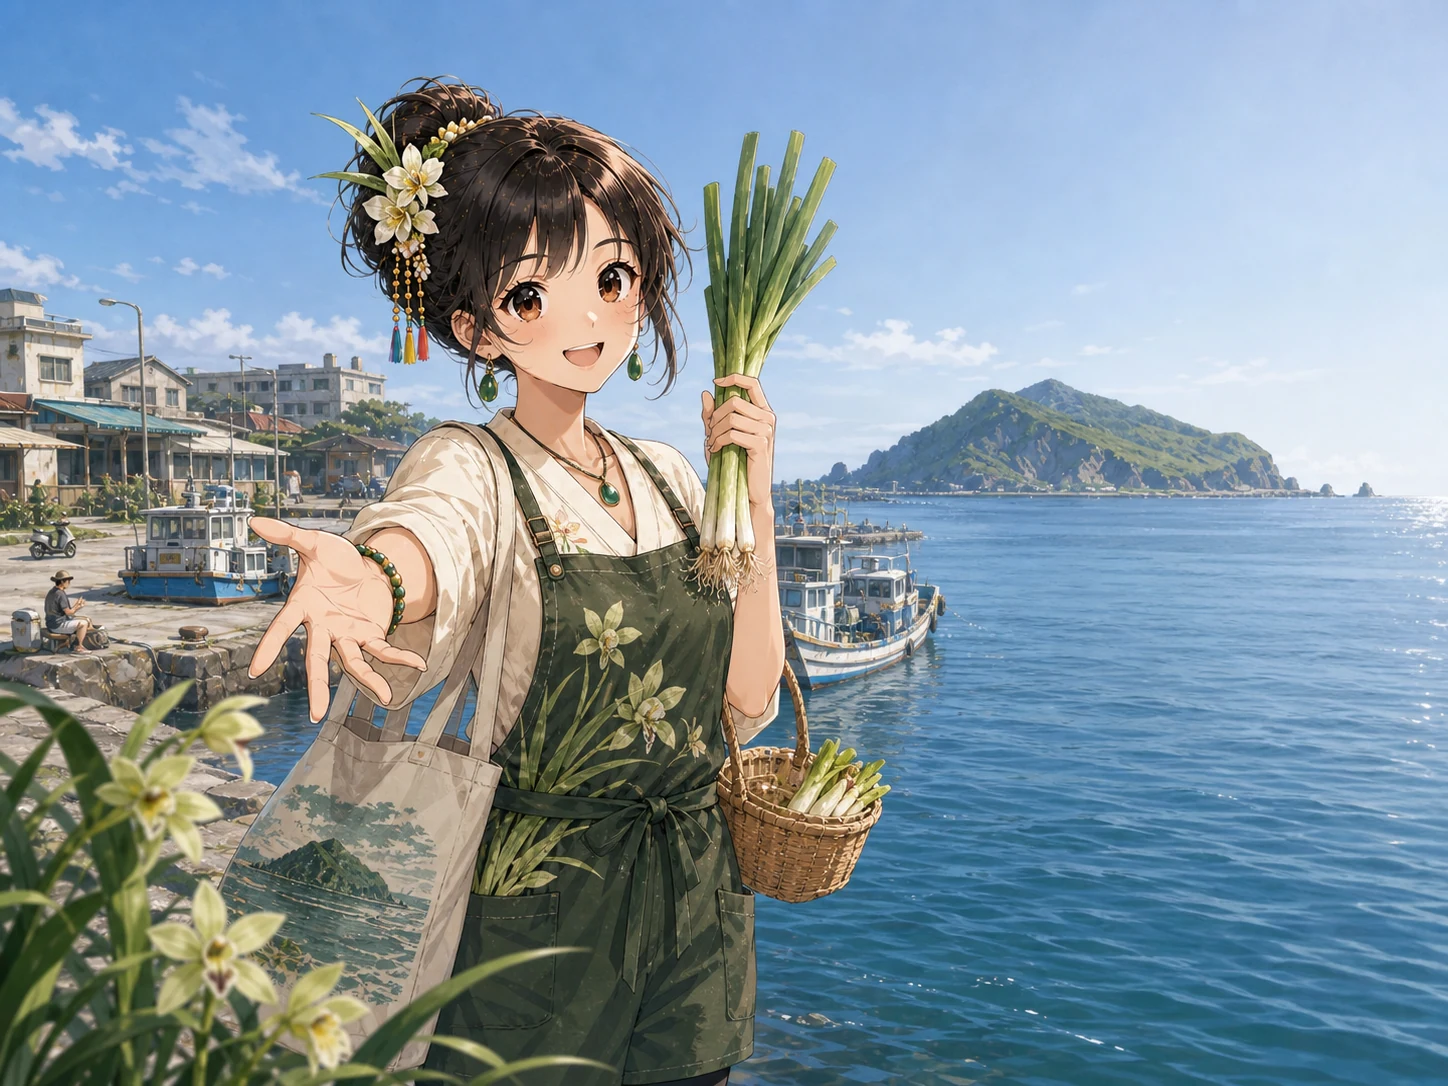
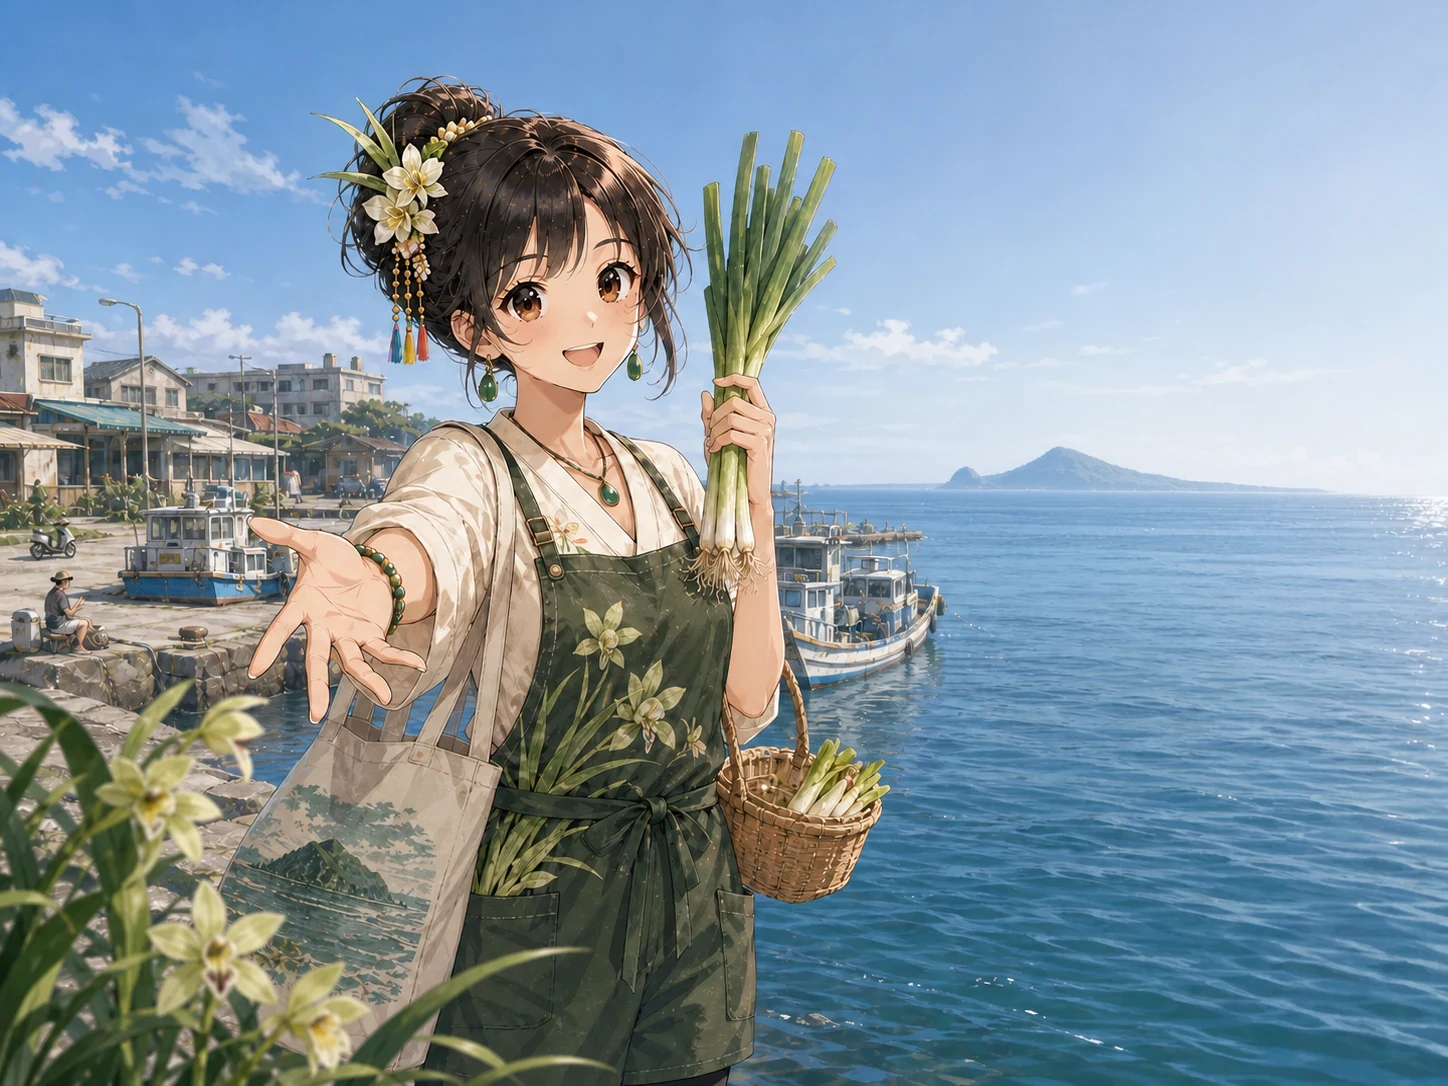
噶瑪蘭依實物照重生、龜山島規格寫死，並加上服飾參考圖機制 (#19)
一、噶瑪蘭的服飾依實物照重畫。舊圖是寬黑白斑馬條紋——文字依據沒錯，
但「以黑色白色為主」沒寫黑白怎麼配置，模型就自由發揮了。實物是白色開襟上衣、
前襟與袖口與下襬鑲黑寬邊、黑邊上綴白珠十字與銀圓片、珠繡頭帶。
頭飾也從「查不到形制所以戴宜蘭縣花」改成族群自己的珠繡頭帶。

二、加 scene.costume_refs：逐筆附服飾實物照，排在參考圖最後一張。收照片三道關：
照片授權（只收國家文化記憶庫的 CC BY-NC 3.0 TW+，lcm.tacp.gov.tw 沒有開放授權，
只當閱讀資料）、智慧創作專用權（tibay 女子禮裙已登記，所以畫日常不畫禮服）、
以及「不准抄紋樣不是安全牌」——族服的識別特徵常常就是紋樣本身，
禁掉紋樣等於禁掉這張圖存在的理由。要禁的是登記在案的特定作品與部落專屬紋章。

三、龜山島從第一版就畫錯：接在陸地上、佔滿中景、沒有龜首龜尾。規格改對三件
（離岸、距離、三段式輪廓），並記下「龜首 239 公尺不得高過龜甲 398 公尺」
與「朝左朝右取決於站在哪裡」。噶瑪蘭與宜蘭普通版兩張都修正。

四、新增 --fix-landmark-shape：只重畫主地標、其餘保留。宜蘭普通版整張重生的候選
把國蘭髮花退化成櫻花狀白花，用好的換壞的不划算，所以走定點修正。

順帶抓到一個舊病灶：宜蘭的 landmarks 寫著太平山與冬山河，但視點是頭城海岸，
從那裡兩者都看不到——跟台北那次同一個形狀，已寫成待辦。

diff --git a/sw.js b/sw.js
@@ -8,7 +8,7 @@
  * SHELL_V 由 tools/build_sw.py 依 precache 清單的內容 hash 產生，不要手改。
  * 手動 bump 的遲早會忘記，而忘記的症狀是「使用者永遠看不到新版」，沒有任何徵兆。
  */
-const SHELL_V = "shell-0430490";
+const SHELL_V = "shell-e43f8d8";
 const ASSET_V = "asset-v1";
 
 // 前綴要跨專案唯一。CacheStorage 是 per-origin，yazelin.github.io 底下所有專案

diff --git a/tools/build_prompt.py b/tools/build_prompt.py
@@ -157,6 +157,25 @@ def costume_block(c):
         "Every layer named above must remain visible in the finished picture — do not let an "
         "outer garment cover and hide a layer that was listed, especially leg-cloths and "
         "chest-cloths. ")
+    # 有實物照時才加這段。
+    # 第一版寫成「不得複製任何織紋」——那是錯的，而且自相矛盾：族服的識別特徵常常
+    # 就是紋樣本身（賽夏沒有雷女紋只剩標籤、太魯閣沒有菱紋就變泛族風），
+    # 禁掉紋樣等於禁掉這張圖存在的理由。要禁的從來不是「紋樣」，是
+    # 「登記在案的特定作品」與「可辨識到單一部落的專屬紋章」。
+    if c.get("scene", {}).get("costume_refs"):
+        parts.append(
+            "THE LAST REFERENCE IMAGE is a photograph of this actual garment as it is worn today. "
+            "Follow it for how the pieces are constructed and layered, the proportions (garment "
+            "lengths, how deep the trim bands are, how wide the panels are), how the colours are "
+            "distributed, AND the ornament actually visible on it — the bead work, the metal discs "
+            "and the way they are laid out along the bands. That patterning is the point of the "
+            "garment, not an optional extra: draw it. "
+            "Two things you must NOT take from it: do not reproduce it as a ceremonial or wedding "
+            "dress, and do not add any single crest or emblem that would mark one specific village "
+            "rather than the people as a whole. "
+            "Do NOT copy the person, face, pose, hairstyle, background or framing from it — "
+            "those come from the character sheets and the scene description. "
+            "Where the photograph and the written description disagree, the written description wins. ")
     return "".join(parts)
 
 
@@ -304,12 +323,18 @@ def build(c):
 
 
 def refs(c):
-    """生圖要附的參考圖：image 1 是舊海報，其後才是角色設定圖。"""
+    """生圖要附的參考圖：image 1 是舊海報，其後是角色設定圖，最後才是服飾實物照。
+
+    服飾實物照放在最後，是因為 build() 裡那段說明用「最後一張參考圖」來指涉它。
+    只有 scene.costume_refs 有寫的那幾筆才會附——照片要授權允許才收，見
+    data/costume-refs/SOURCES.md。
+    """
     out = []
     if c.get("poster"):
         out.append(ROOT / "img" / f"{c['poster']}.webp")
     out.extend([ROOT / "data" / "character" / "ref-half.png",
                 ROOT / "data" / "character" / "face.png"])
+    out.extend(ROOT / p for p in c.get("scene", {}).get("costume_refs", []))
     return [str(p) for p in out if p.exists()]
 
 
@@ -473,6 +498,32 @@ def build_landmark_boundary_fix(c):
     )
 
 
+def build_landmark_shape_fix(c):
+    """既有底圖只重畫主地標本身，其餘一律保留。
+
+    用在「畫面是好的、但那個地標畫錯了」的情況——宜蘭那張把離岸的龜山島畫成接在
+    陸地上的岬角，整張圖其他部分（國蘭髮花、構圖、右側留白）都比重生的候選好，
+    重生等於用好的換壞的。內容取自 scene.hero_landmark_en，所以其他縣市也能用。
+    """
+    s = c["scene"]
+    return (
+        "Use case: precise-object-edit. Image 1 is the edit target. "
+        "Change ONLY the main landmark in the middle distance and the water immediately around it. "
+        "Whatever landform currently occupies that part of the picture is wrong and must be removed "
+        "completely, together with any buildings, roads, breakwaters or shoreline that currently sit on "
+        "it or connect it to the land. In its place, continue the open sea, and on the far horizon draw: "
+        + s["hero_landmark_en"] + " "
+        "Draw it at the size and haze of things that far away — small, pale and low-contrast, clearly "
+        "behind everything in the foreground. "
+        "Preserve everything else exactly unchanged: the complete character, her face, eyes, hair, the "
+        "flower and leaves in her hair, the hairpin, earrings, all clothing, both hands and whatever she "
+        "is holding, every foreground plant, and all the town, road, railway, bridge, near shoreline and "
+        "rocks on the left side. Keep the sky, horizon height, lighting, palette, painterly anime style "
+        "and 4:3 framing. Do not move or rescale the character. "
+        "No text, letters, logos, panels, borders or watermarks."
+    )
+
+
 def build_bottom_right_cleanup(c):
     """既有底圖只清除右下文字區的近景障礙物。"""
     return (
@@ -573,6 +624,8 @@ if __name__ == "__main__":
         print(build_tote_print_fix(county))
     elif "--cleanup-right-zone" in sys.argv:
         print(build_right_zone_cleanup(county))
+    elif "--fix-landmark-shape" in sys.argv:
+        print(build_landmark_shape_fix(county))
     elif "--fix-landmark-boundary" in sys.argv:
         print(build_landmark_boundary_fix(county))
     elif "--cleanup-bottom-right" in sys.argv:

diff --git a/AGENTS.md b/AGENTS.md
@@ -504,6 +504,42 @@ mcp__chrome-devtools__emulate  viewport: 1600x1000x1
 **開襟方向、扣件形式、眼睛顏色這種一兩個像素寬的特徵，縮圖上看到的是自己的預期。**
 要判斷就裁出那個部位放大到 500px 以上再看。這跟先前「用 1× 手機截圖判斷版面」是同一個形狀。
 
+## 文字鎖得住結構，鎖不住比例與分佈——該用實物照就用
+
+噶瑪蘭那一筆的文字依據沒有錯：原民會族群介紹寫「上半部是方衣系統、用兩幅布縫合而成，
+下半身則以一塊布料裹身，以黑色、白色為主」，每一項都對得回去。
+但那段話**沒有寫黑白怎麼配置**，模型就畫成寬斑馬條紋。實物是白色開襟上衣、
+前襟與袖口與下襬鑲黑寬邊、黑邊上綴白珠與銀圓片——差得離譜，而且被使用者一眼看出來。
+
+阿美族那一筆的規格厚得多（female 欄九項逐條），仍然花了六個候選加兩次補規格，
+「三片方布」的層次到現在還看不出來。**這是文字這個媒介的上限，不是寫得不夠努力。**
+
+| | 文字擅長 | 文字幾乎無能為力 |
+|---|---|---|
+| 例子 | 開襟方向、衣長、幾層、扣件形式、什麼不准出現 | 黑白各佔多少、鑲邊多寬、珠飾多密、哪裡留白 |
+
+所以 `scene.costume_refs` 可以逐筆附實物照，`build_prompt.py` 會把它排在參考圖的最後一張。
+
+**收照片有三道關，缺一不可：**
+
+一、**照片的授權**。國家文化記憶庫（`tcmb.culture.tw`）的數位物件是 CC BY-NC 3.0 TW+，
+非商業可用、要姓名標示，適合這個專案。全國原住民族文化館主題網（`lcm.tacp.gov.tw`）
+頁尾只有 `Copyright © 2022`，沒有開放授權——那批只能當閱讀資料用來寫規格，不進 repo、不進 prompt。
+每一張的出處、典藏單位與授權寫在 `data/costume-refs/SOURCES.md`。
+
+二、**智慧創作專用權是另一件事**，跟照片授權無關，兩件都要過。噶瑪蘭已登記
+「tibay（女子禮裙）」（噶 GH000026），所以這一筆畫日常常見形制、不畫禮服。
+
+三、**不要把「不准抄紋樣」當成安全牌**。第一版的 prompt 我寫成「不得複製任何織紋」，
+那是自相矛盾的：族服的識別特徵常常就是紋樣本身（賽夏沒有雷女紋只剩標籤、
+太魯閣沒有菱紋就變泛族風），禁掉紋樣等於禁掉這張圖存在的理由。
+要禁的從來不是紋樣這個類別，是兩件具體的事：**畫成登記在案的特定作品**，
+以及**加上可辨識到單一部落的專屬紋章**。現在的 prompt 明講「照片上的珠飾與圓片排列就是
+這件衣服的重點，要畫」，另外兩件才是否定句。
+
+而且對噶瑪蘭來說，照片是紋樣的**唯一**依據：`costume.json` 的 motifs 欄只記了十九世紀
+結婚服飾的挑織紋，現行黑白款那一格是空的。照片上黑邊的白珠小十字，正好對得回記載裡的「米字」。
+
 ## 規格寫「若出現」等於沒寫
 
 賽夏族的雷女紋是它唯一的獨有識別特徵——北賽夏的服裝形制與泰雅極為相似，

diff --git a/data/costume-refs/SOURCES.md b/data/costume-refs/SOURCES.md
@@ -1,0 +1,26 @@
+# 服飾參考照片
+
+這裡的照片是**生圖時要附進去的參考圖**，不是裝飾。會需要它，是因為只靠文字描述做不到必要的精準度：
+噶瑪蘭那一筆的文字依據只寫「黑白為主、方衣系統、兩幅布縫合」，模型就把它畫成寬斑馬條紋，
+而實物是白衣、袖口與衣襬鑲黑寬邊、黑邊上綴白珠與銀圓片。
+文字擅長鎖結構（開襟方向、衣長、層數、扣件），對比例與分佈幾乎無能為力——那正是一張照片一秒說完的事。
+
+**只收授權允許的來源。** 每一張都要在下表寫明出處、典藏單位與授權，並且在網站的依據頁標示。
+
+| 檔案 | 內容 | 出處 | 典藏單位 | 授權 |
+|---|---|---|---|---|
+| `kavalan-female-01.jpg` | 噶瑪蘭族女子服飾（白色開襟上衣、鑲黑寬邊、白珠與銀圓片、珠繡帽飾） | [國家文化記憶庫](https://tcmb.culture.tw/zh-tw/detail?indexCode=Culture_People&id=488276) | 原住民族委員會原住民族文化發展中心 | CC BY-NC 3.0 TW+ |
+| `kavalan-female-02.jpg` | 同上，男女合影，可看衣長與下半身形制 | 同上 | 同上 | CC BY-NC 3.0 TW+ |
+
+原圖尺寸 3456×5184，收進來的是長邊 1600 的縮圖（參考用途夠，不必扛原始大檔）。
+
+**沒有收進來的**：全國原住民族文化館主題網（`lcm.tacp.gov.tw`）的典藏照片。
+那個站頁尾只寫 `Copyright © 2022 原展群博`，沒有開放授權，所以只當閱讀資料用來寫規格，不進 repo、不進 prompt。
+
+## 用照片之前要過的第二關
+
+照片的著作權授權與**原住民族傳統智慧創作專用權**是兩件事，兩件都要過。
+噶瑪蘭族已登記「tibay（女子禮裙）」（噶 GH000026，種類為圖案、服飾，專用權人為噶瑪蘭族）。
+本專案畫的是日常常見形制、不畫禮裙，並且在 prompt 明確要求「只取形制與配色分佈，不複製任何特定織紋」。
+公告本文目前讀不到（`titic.cip.gov.tw` 的 TLS 設定太舊，本機連不上），
+所以標的範圍是否涵蓋日常款尚未確認——這一點寫在這裡，不假裝查過。
